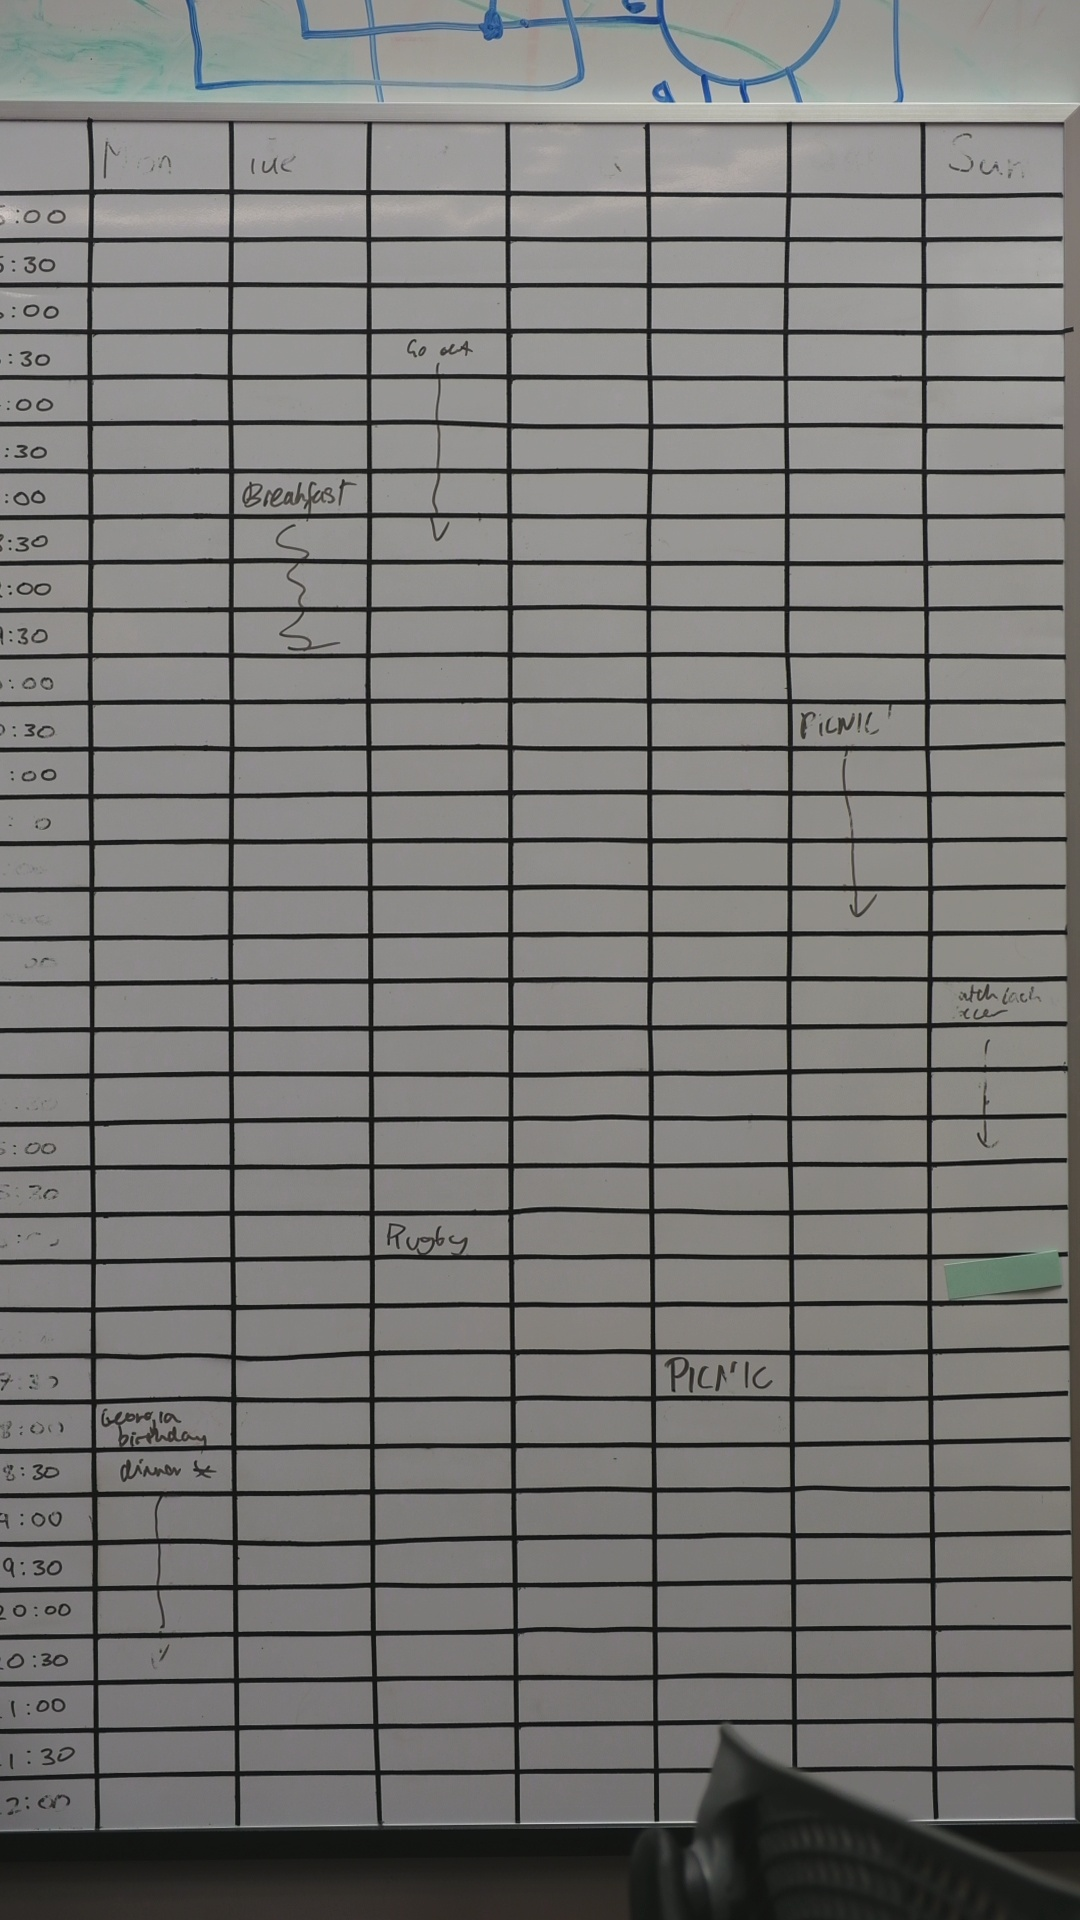
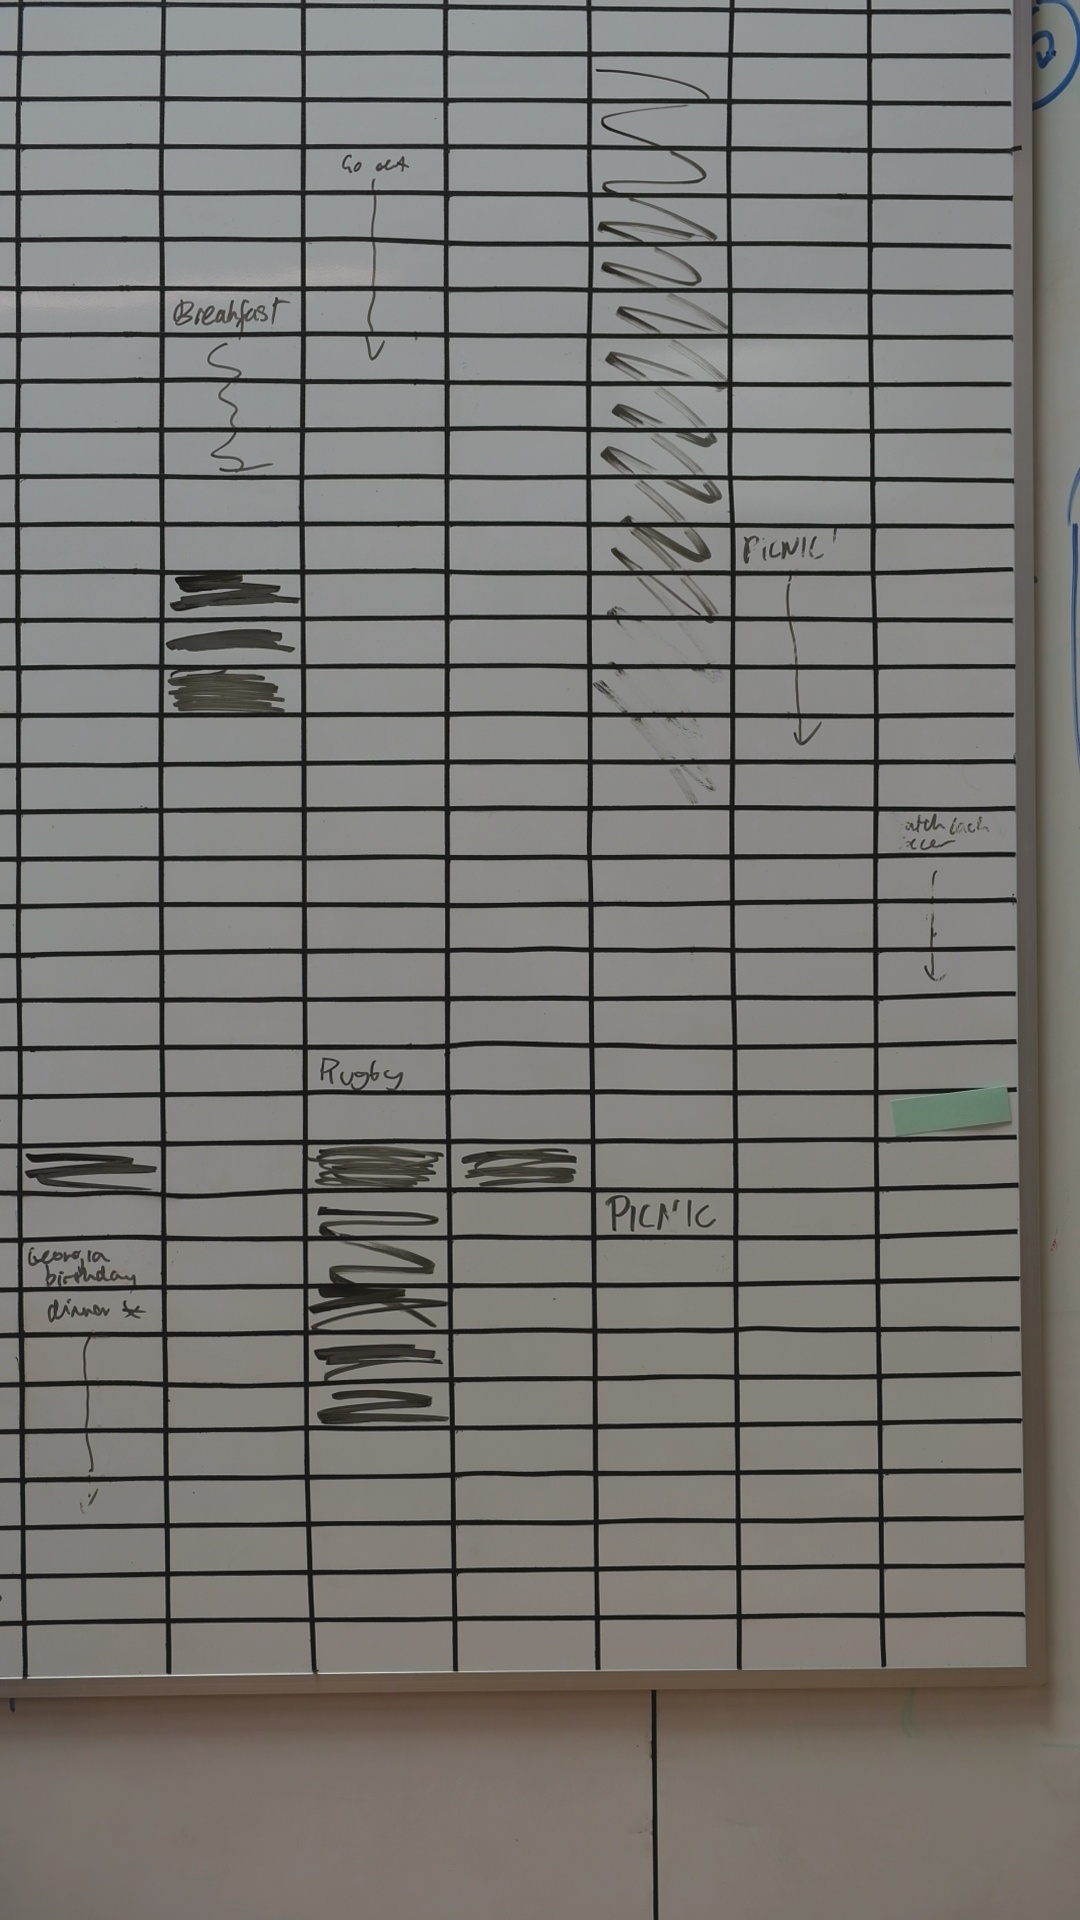
readme changes and adjusted black threshold and new calibration for filming

diff --git a/vision/reader.py b/vision/reader.py
@@ -125,7 +125,7 @@ def get_info(time_slot_array: np.ndarray) -> (bool, [str], str):
     # threshold this for how many pixels need to be coloured to think important
     is_blue = pcent_blue >= 2
     is_red = pcent_red >= 2
-    is_black = pcent_black >= 18
+    is_black = pcent_black >= 5
 
     is_coloured = is_blue or is_red or is_black
     colour = []

diff --git a/vision/constants.py b/vision/constants.py
@@ -1,7 +1,6 @@
 import numpy as np
 
-python_path = '/Users/alexviller/micromamba/envs/tmp/bin/python'
-
+python_path = '/Users/alexviller/miniconda3/envs/lambda-env/bin/python'
 
 colour_thresholds = {
     'red_min': np.array([100, 0, 0]),

diff --git a/vision/camera_constants.py b/vision/camera_constants.py
@@ -1,5 +1,5 @@
-left = 203
-top = 180
-time_slot_width = 115.0
-time_slot_height = 38.0
-rotation_angle = 90
+rotation_angle = 270.0
+left = 20
+top = 4
+time_slot_width = 142.0
+time_slot_height = 47.5

diff --git a/README.md b/README.md
@@ -66,11 +66,11 @@ We recommend you install [Node Version Manager(NVM)](https://github.com/nvm-sh/n
 to maintain a correct node version. Once NVM is installed we can then run
 
 ```sh
-nvm install lts
-nvm use lts
+nvm install latest
+nvm use latest
 ```
 
-If you don't wish to use NVM then use your chosen package manager to install [Node LTS](https://nodejs.org/en/download).
+If you don't wish to use NVM then use your chosen package manager to install [Node Latest](https://nodejs.org/en/download).
 
 Then we can install our node packages with:
 
@@ -87,11 +87,11 @@ Due to the number of components in this project. It is best to go to the individ
 READMEs for each component individual component. For your convenience we have listed
 these below:
 
-- [Database Handler](../build/db-handler/README.md)
-- [Image Recognition](../build/vision/README.md)
-- [Display](../build/ui-display/frontend-app/README.md)
-- [Microcontroller](../build/microcontroller/README.md)
-- [Microcontroller Communication](../build/figurines/README.md)
+- [Database Handler](./db-handler/README.md)
+- [Image Recognition](./vision/README.md)
+- [Display](./ui-display/frontend-app/README.md)
+- [Microcontroller](./microcontroller/README.md)
+- [Microcontroller Communication](./figurines/README.md)
 
 > [!IMPORTANT]
 > If any further details are required, please contact a member of Team \\Lambda
